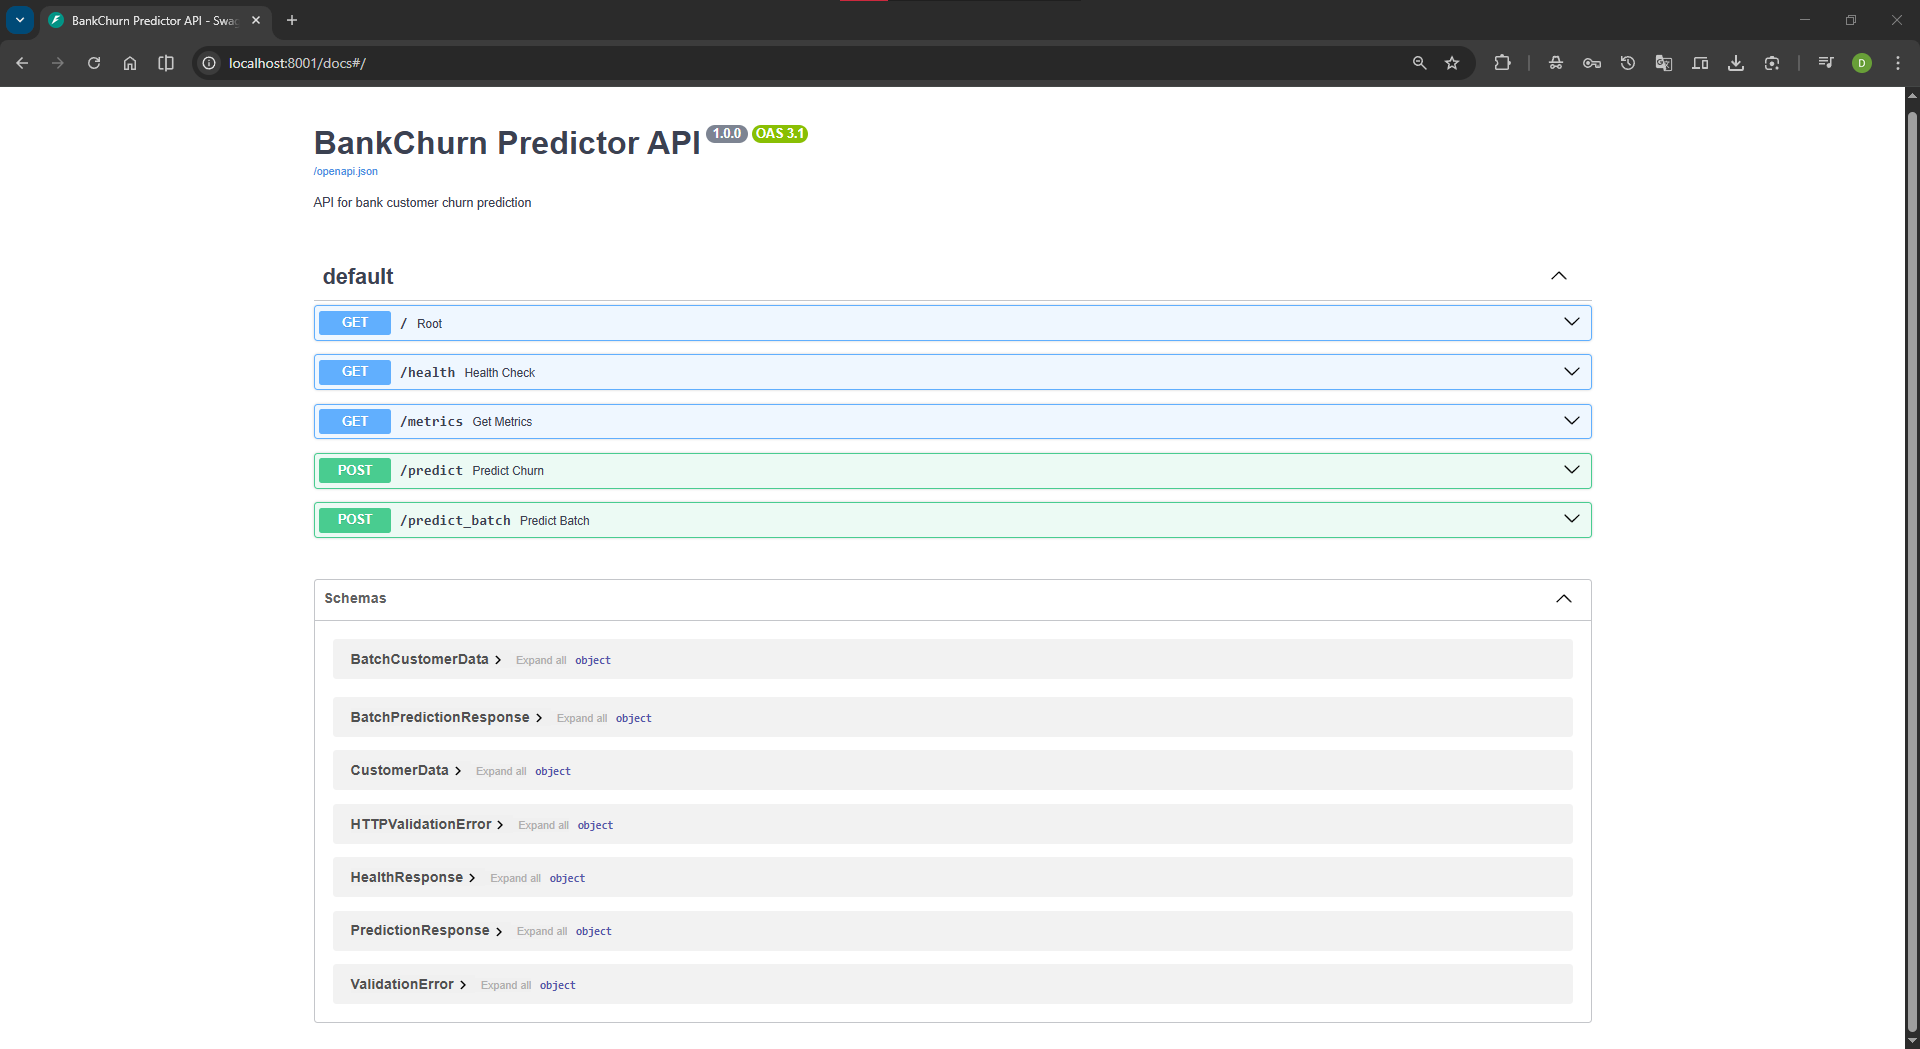
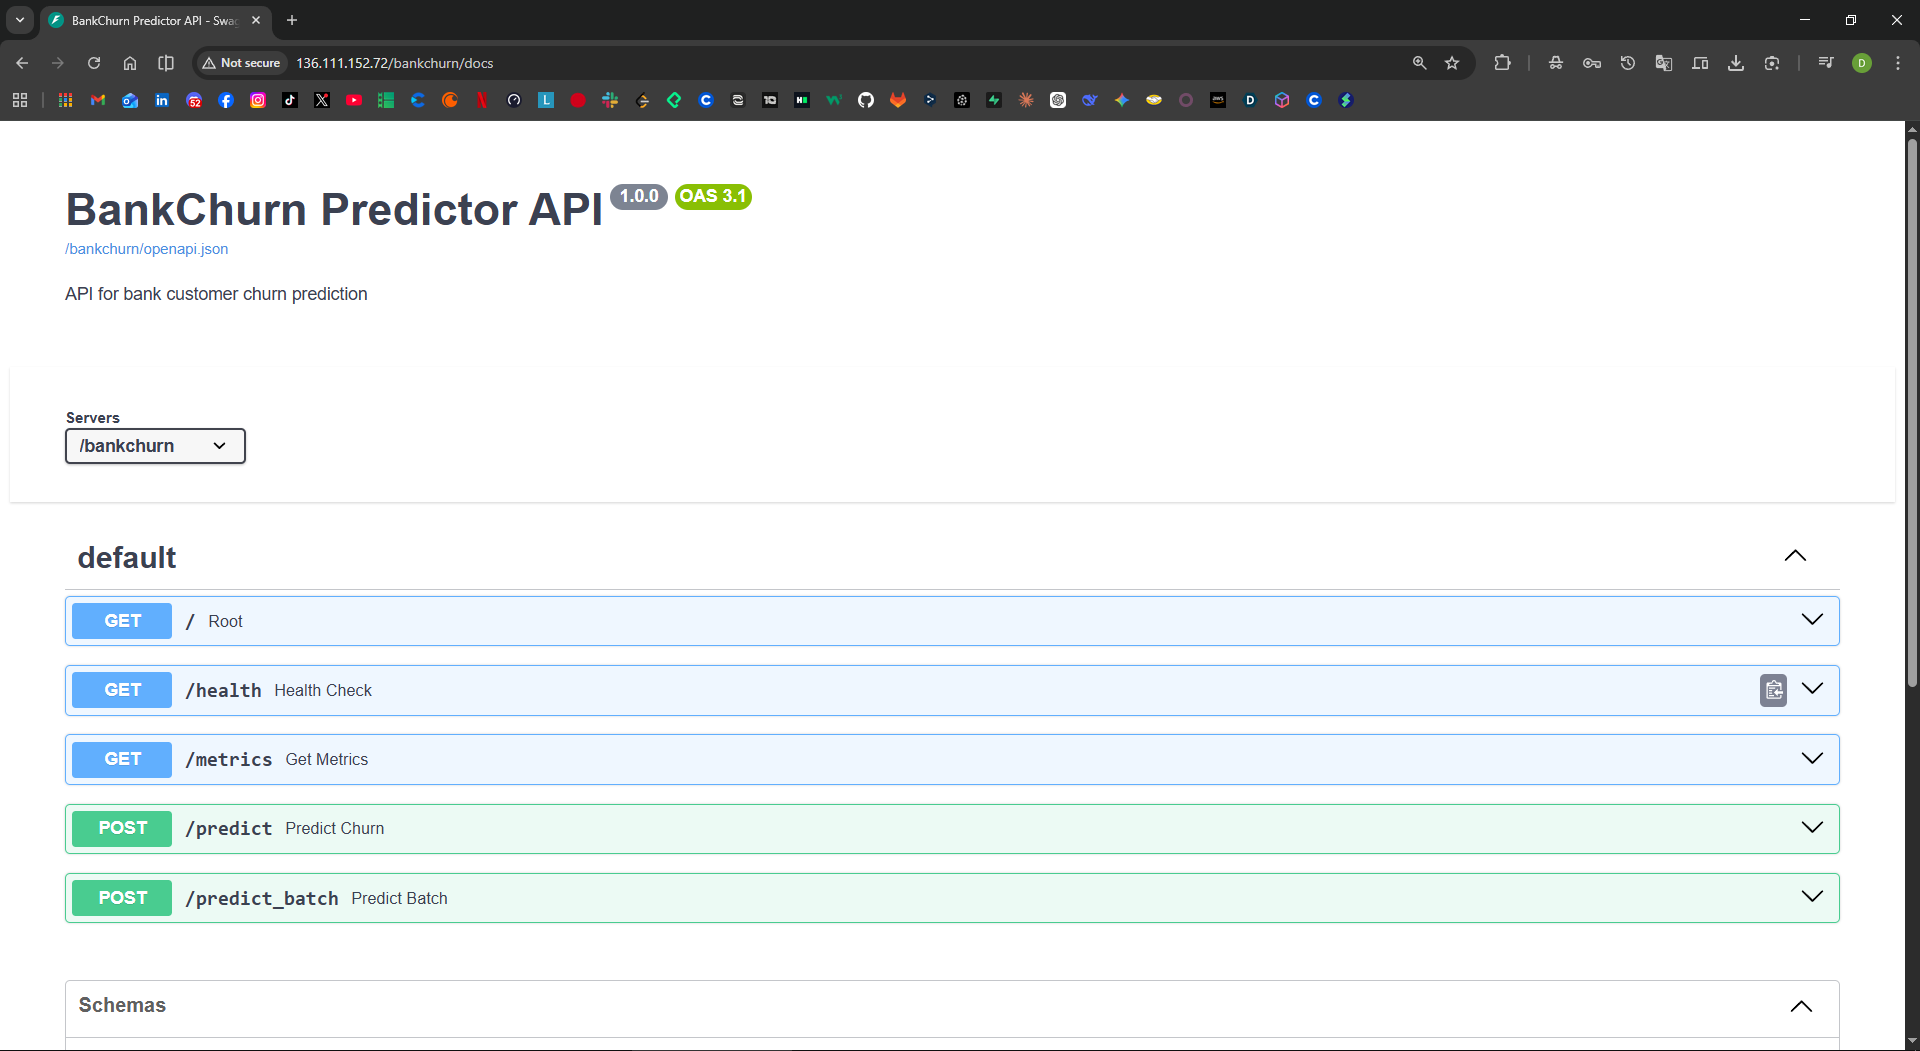
refactor(k8s): restructure for true multi-cloud parity
BREAKING CHANGE: K8s directory structure reorganized for Kustomize best practices

## Structural Changes
- Move shared resources → k8s/base/ (namespace, storage, monitoring, security, MLOps)
- Move GCP-specific → k8s/overlays/gcp/ (deployments, ingress, GCS configmaps)
- Move AWS-specific → k8s/overlays/aws/ (deployments, ingress, S3 configmaps)

## Fixes Applied
- storage.yaml: Remove GKE-specific storageClassName for cloud-agnostic behavior
- PDBs: Add missing chicagotaxi-pdb
- AWS deployments: Sync versions (v3.5.0/v3.5.1), env vars, init containers, boto3
- AWS download-script: Add tar.gz extraction support
- AWS configmaps: Add chicagotaxi-predictions-config, fix nlpinsight model path
- Init containers: Standardize naming (download-model, download-predictions)
- Remove phantom metrics-configmap-aws.yaml reference

## Validation
- Both overlays build successfully: kubectl kustomize k8s/overlays/{gcp,aws}/
- Resource parity: 48 resources each with identical kind distribution
- No GCP-first smell — symmetric multi-cloud architecture

## Documentation Updated
- Portfolio: GCP_PRODUCTION_GUIDE.md, AWS_PRODUCTION_GUIDE.md (kustomize deployment)
- Portfolio: architecture/infrastructure.md, decisions/006-drift-triggered-retraining.md
- Guia_MLOps: 18_INFRAESTRUCTURA.md, 17_DESPLIEGUE.md, 06_VERSIONADO_DATOS.md,
  16_OBSERVABILIDAD.md, 20_OBSERVABILIDAD_AVANZADA_DRIFT.md, 13_DOCKER.md,
  14_FASTAPI.md, ADR_PORTAFOLIO.md, MAPA_PORTAFOLIO_1TO1.md, DIARIO_ERRORES.md
[…]

diff --git a/docs/decisions/011-gradio-exclusion.md b/docs/decisions/011-gradio-exclusion.md
@@ -1,0 +1,63 @@
+# ADR-011: Gradio Demo — Not Deployed to Production
+
+**Date**: 2026-03-10  
+**Status**: Accepted  
+**Context**: BankChurn project includes `app/gradio_demo.py` — an interactive UI for churn prediction.
+
+## Decision
+
+**Do NOT deploy Gradio to the Kubernetes cluster.** Keep it as a local development tool only.
+
+## Context
+
+After removing CarVision (and its Streamlit dashboard) from the portfolio in v3.5.0, the three remaining services (BankChurn, NLPInsight, ChicagoTaxi) are all API-only FastAPI applications. The question arose whether BankChurn's Gradio demo should be deployed to fill the "interactive UI" gap.
+
+## Evaluation
+
+### Arguments FOR deploying Gradio
+
+| Argument | Weight |
+|----------|--------|
+| Visual demo impresses non-technical reviewers | Medium |
+| Shows ability to build user-facing ML interfaces | Low (not the portfolio's focus) |
+| Fills gap left by CarVision Streamlit removal | Low |
+
+### Arguments AGAINST deploying Gradio
+
+| Argument | Weight |
+|----------|--------|
+| **Inconsistency**: Only 1 of 3 projects would have a UI → asymmetric architecture | High |
+| **Not enterprise-grade**: No auth, no RBAC, limited scaling, no production hardening | High |
+| **Redundant**: Swagger UI already provides interactive API testing for all 3 services | High |
+| **Resource impact**: Additional pod on an e2-medium cluster (shared vCPU, 4GB RAM) | Medium |
+| **Scope creep**: Portfolio demonstrates MLOps (CI/CD, K8s, monitoring), not UI/UX | Medium |
+| **Over-engineering**: Adding infrastructure that doesn't serve the portfolio's thesis | Medium |
+
+### What enterprise teams actually do
+
+In production ML platforms, the frontend is typically:
+- A dedicated React/Vue/Next.js application built by a frontend team
+- An internal tool (Retool, Streamlit Cloud) for stakeholders
+- NOT a Gradio widget embedded in the ML service pod
+
+Deploying Gradio alongside FastAPI conflates two concerns: **ML serving** (FastAPI) and **user interface** (Gradio). Enterprise architecture separates these.
+
+## Alternatives Considered
+
+| Alternative | Verdict |
+|-------------|---------|
+| Deploy Gradio as sidecar in BankChurn pod | Rejected — increases pod resource usage, inconsistent with other services |
+| Deploy Gradio as separate Deployment + Ingress path | Rejected — full K8s stack for a demo UI that duplicates Swagger UI |
+| Add Gradio to all 3 projects | Rejected — NLPInsight and ChicagoTaxi have simple inputs; Swagger UI is sufficient |
+| Replace Gradio with a React frontend | Rejected — significant effort, out of portfolio scope (MLOps, not frontend) |
+
+## Consequences
+
+- `app/gradio_demo.py` remains in BankChurn for **local development and demos** (`python app/gradio_demo.py`)
+- No K8s deployment, service, or Ingress path for Gradio
+- Portfolio UI interaction is demonstrated via **Swagger UI** (`/bankchurn/docs`, `/nlpinsight/docs`, `/chicagotaxi/docs`)
+- If a recruiter or interviewer asks about UI capabilities, point to Gradio demo code as evidence of the skill, and explain the architectural decision to keep it out of production
+
+## Principle
+
+> **Every component in the cluster must justify its resource cost and operational burden.** A demo UI that duplicates Swagger UI functionality does not meet this bar. The portfolio's value comes from the MLOps infrastructure (CI/CD, monitoring, auto-scaling, canary deployments), not from a prototype UI.

diff --git a/docs/decisions/006-drift-triggered-retraining.md b/docs/decisions/006-drift-triggered-retraining.md
@@ -79,7 +79,7 @@ The retraining pipeline itself runs in GitHub Actions (same as the CI pipeline),
 
 ### Drift Check CronJob
 
-See `k8s/drift-retraining-cronjob.yaml` — runs daily at 02:00 UTC.
+See `k8s/base/drift-retraining-cronjob.yaml` — runs daily at 02:00 UTC.
 
 ### Thresholds
 
@@ -137,6 +137,6 @@ The interfaces between components (Evidently → webhook, MLflow registry → de
 ## References
 
 - [ADR-001: CPU-Only HPA](001-cpu-only-hpa.md)
-- [K8s CronJob manifest](../../k8s/drift-retraining-cronjob.yaml)
+- [K8s CronJob manifest](../../k8s/base/drift-retraining-cronjob.yaml)
 - [Prometheus alert rules](../../infra/prometheus-rules.yaml)
 - [Evidently drift configuration](../../BankChurn-Predictor/configs/config.yaml)

diff --git a/docs/architecture/infrastructure.md b/docs/architecture/infrastructure.md
@@ -88,10 +88,9 @@ flowchart TB
 
 | Manifest | Purpose |
 |----------|---------|
-| `k8s/*-deployment.yaml` | 3 ML APIs + MLflow + Prometheus + Grafana (6 pods) |
-| `k8s/ingress.yaml` | External access with path-based routing |
-| `k8s/model-configmaps.yaml` | GCS model/dataset paths for init containers |
-| `k8s/overlays/aws/` | AWS-specific Kustomize overlays |
+| `k8s/base/` | Cloud-agnostic: namespace, storage, monitoring, network policies, PDBs, drift cronjobs |
+| `k8s/overlays/gcp/` | GCP overlay: GKE deployments, GCS configmaps, Workload Identity SA, ingress |
+| `k8s/overlays/aws/` | AWS overlay: EKS deployments, S3 configmaps, IRSA SA, ingress |
 
 ### Resource Calibration (2 uvicorn workers)
 
